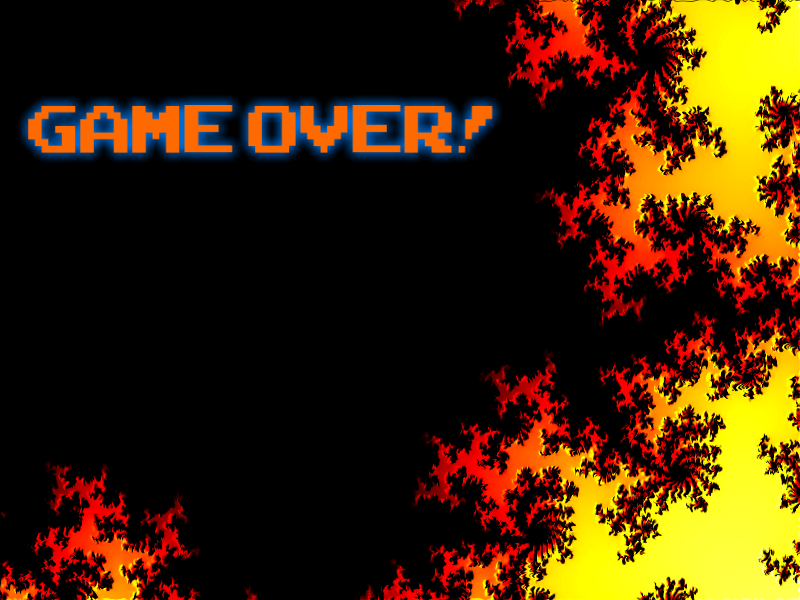
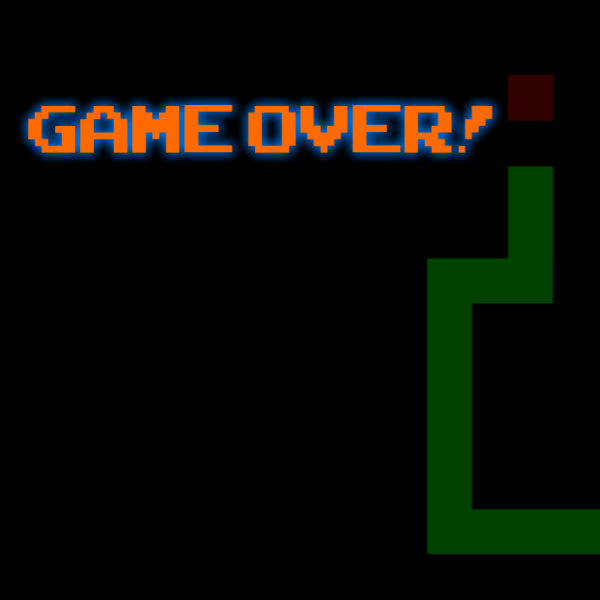
Disabled gridlines, changed grid size, BG, Screen Size, other visuals

diff --git a/src/Worlds/WorldBase.java b/src/Worlds/WorldBase.java
@@ -52,16 +52,24 @@ public abstract class WorldBase {
     }
 
     public void render(Graphics g){
+    	g.setColor(Color.darkGray);
+        g.fillRect(0,0,handler.getWidth(),handler.getHeight());
 
-        for (int i = 0; i <= 800; i = i + GridPixelsize) {
+        //rendergrid(g);
+    }
+    
+    /**
+     * Render the grid, comment me out if you don't need me
+     * @param g
+     */
+    public void rendergrid(Graphics g) {
+    	for (int i = 0; i <= 800; i = i + GridPixelsize) {
 
-            g.setColor(Color.white);
+            g.setColor(Color.black);
             g.drawLine(0, i, handler.getWidth() , i);
             g.drawLine(i,0,i,handler.getHeight());
 
         }
-
-
 
     }
 

diff --git a/src/Game/GameStates/MenuState.java b/src/Game/GameStates/MenuState.java
@@ -22,7 +22,7 @@ public class MenuState extends State {
         handler.getMouseManager().setUimanager(uiManager);
 
 
-        uiManager.addObjects(new UIImageButton(handler.getWidth()/2-64, handler.getHeight()/2-32, 128, 64, Images.butstart, new ClickListlener() {
+        uiManager.addObjects(new UIImageButton(handler.getWidth()/2-55, handler.getHeight()/2-32, 128, 46, Images.butstart, new ClickListlener() {
             @Override
             public void onClick() {
                 handler.getMouseManager().setUimanager(null);

diff --git a/src/Worlds/WorldOne.java b/src/Worlds/WorldOne.java
@@ -15,8 +15,8 @@ public class WorldOne extends WorldBase{
         super(handler);
 
         //has to be a number bigger than 20 and even
-        GridWidthHeightPixelCount = 40;
-        GridPixelsize = (800/GridWidthHeightPixelCount);
+        GridWidthHeightPixelCount = 30;
+        GridPixelsize = (600/GridWidthHeightPixelCount);
         playerLocation = new Boolean[GridWidthHeightPixelCount][GridWidthHeightPixelCount];
         appleLocation = new Boolean[GridWidthHeightPixelCount][GridWidthHeightPixelCount];
 

diff --git a/src/Game/GameStates/GameOverState.java b/src/Game/GameStates/GameOverState.java
@@ -60,7 +60,7 @@ public class GameOverState extends State {
     @Override
     public void render(Graphics g) {
     	//we need a new image aca
-        g.drawImage(Images.GameOver,0,0,800,600,null);
+        g.drawImage(Images.GameOver,0,0,600,600,null);
         uiManager.Render(g);
 
     }

diff --git a/src/Game/GameStates/PauseState.java b/src/Game/GameStates/PauseState.java
@@ -60,7 +60,7 @@ public class PauseState extends State {
 
     @Override
     public void render(Graphics g) {
-        g.drawImage(Images.Pause,0,0,800,600,null);
+        g.drawImage(Images.Pause,0,0,600,600,null);
         uiManager.Render(g);
 
     }

diff --git a/src/Main/Launch.java b/src/Main/Launch.java
@@ -8,7 +8,7 @@ package Main;
 public class Launch {
 
     public static void main(String[] args) {
-        GameSetUp game = new GameSetUp("Snake", 800, 800);
+        GameSetUp game = new GameSetUp("Snake", 600, 600);
         game.start();
     }
 }
